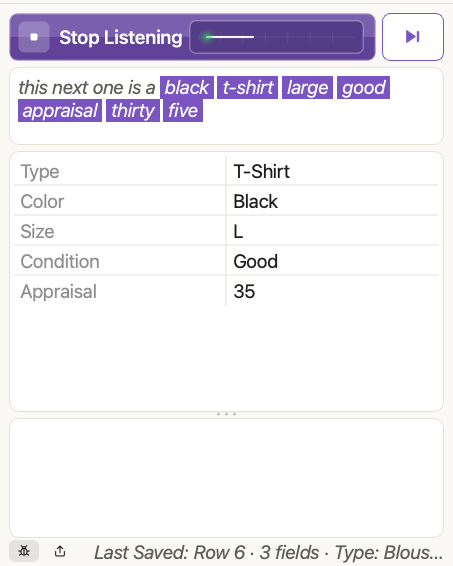
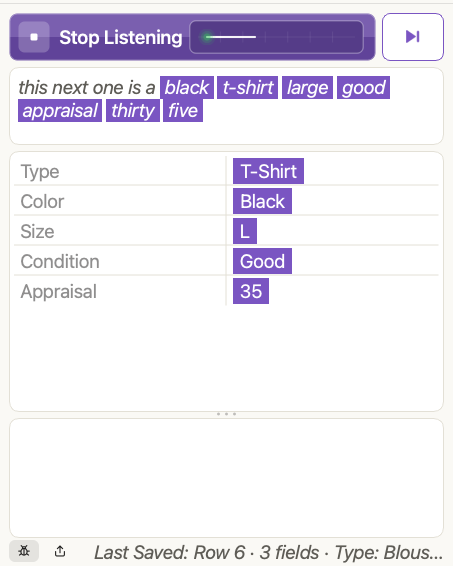
feat: values in the row grid wear the pill; shorter default window; demo settings isolated; Whisper hint carries synonyms; fix stale tests

Changed region(s): [[0.4945, 0.2703, 0.6799, 0.5406]]

diff --git a/quill/ui/main_widgets.py b/quill/ui/main_widgets.py
@@ -28,6 +28,7 @@ from PySide6.QtWidgets import (
     QLabel,
     QSizePolicy,
     QStyle,
+    QStyledItemDelegate,
     QTableWidget,
     QTextEdit,
     QVBoxLayout,
@@ -112,6 +113,35 @@ class ResizeWatcher(QObject):
         return False
 
 
+class _ValuePills(QStyledItemDelegate):
+    """Draws each value of the row grid as a pill: the same square-cornered, accent-coloured wrapper the words in the Voice Stream
+    wear, because they are what the user said."""
+
+    PAD_X, PAD_Y, MARGIN = 7, 3, 6
+
+    def __init__(self, parent) -> None:
+        super().__init__(parent)
+        self.fill, self.ink = QColor("#7A55C2"), QColor("#FFFFFF")
+
+    def paint(self, painter, option, index) -> None:
+        text = str(index.data() or "")
+        if not text:
+            return
+        table = self.parent()
+        reach = option.rect.width() - self.MARGIN - table.DELETE_SIZE - table.DELETE_MARGIN - 6          # (clear of the delete button)
+        metrics = option.fontMetrics
+        shown = metrics.elidedText(text, Qt.TextElideMode.ElideRight, max(reach - 2 * self.PAD_X, 20))
+        width = metrics.horizontalAdvance(shown) + 2 * self.PAD_X
+        height = min(metrics.height() + 2 * self.PAD_Y, option.rect.height() - 4)
+        box = QRect(option.rect.left() + self.MARGIN, option.rect.top() + (option.rect.height() - height) // 2, width, height)
+        painter.save()
+        painter.fillRect(box, self.fill)
+        painter.setPen(self.ink)
+        painter.setFont(option.font)
+        painter.drawText(box, Qt.AlignmentFlag.AlignCenter, shown)
+        painter.restore()
+
+
 class RowTable(QTableWidget):
     """The row being built: a column and its value per line, which the user can delete.
 
@@ -147,6 +177,14 @@ class RowTable(QTableWidget):
         self._over_name = False                  # the pointer is over the column name of such a line
         self._button_fill = QColor("#7A55C2")    # the theme colour; set with :meth:`set_delete_colors`
         self._button_glyph = QColor("#FFFFFF")
+        self._pills = _ValuePills(self)
+        if columns >= 2:
+            self.setItemDelegateForColumn(1, self._pills)          # the values, in pills
+
+    def set_pill_colors(self, fill: str, ink: str) -> None:
+        """Colour the pills the values are drawn in (the theme's accent and the colour on it, as in the Voice Stream)."""
+        self._pills.fill, self._pills.ink = QColor(fill), QColor(ink)
+        self.viewport().update()
 
     def set_delete_colors(self, fill: str, glyph: str) -> None:
         """Colour the delete button: a filled circle in *fill* with an "x" in *glyph* (the theme's accent colours)."""

diff --git a/quill/config/settings.py b/quill/config/settings.py
@@ -63,7 +63,7 @@ DEFAULT_PREFERENCES: dict[str, object] = {
     "spacing": "compact",     # "compact" | "comfortable"
     "font_size": 14,          # base text size in points (14 since preferences version 2; 12 before)
     "model_migrated": False,   # the speech model was once switched to the best one installed
-    "prefs_version": 2,       # raised when a default changes that saved settings should follow
+    "prefs_version": 3,       # raised when a default changes that saved settings should follow
     "log_collapsed": True,    # the main window's log starts hidden (a click on "Log" opens it)
     "hide_dock_icon": False,  # macOS: keep Quill out of the Dock (it stays in the menu bar)
     "window_width": 0,        # the full window's size when Quill last closed (0 = not saved yet)
@@ -243,6 +243,8 @@ class Settings:
         if int(prefs.get("prefs_version", 1) if isinstance(prefs, dict) else 1) < 2:      # settings saved before the new default size
             if settings.preferences["font_size"] == 12:
                 settings.preferences["font_size"] = int(DEFAULT_PREFERENCES["font_size"])
+        if int(prefs.get("prefs_version", 1) if isinstance(prefs, dict) else 1) < 3:      # the default window got shorter: follow it once
+            settings.preferences["window_height"] = 0
         settings.preferences["prefs_version"] = int(DEFAULT_PREFERENCES["prefs_version"])
         settings.account = clean_account(data.get("account") if isinstance(data.get("account"), dict) else None)
         settings.links = LinkStore.from_list(data.get("links"))

diff --git a/quill/app.py b/quill/app.py
@@ -962,14 +962,22 @@ class QuillApp:
         return self._refiner_factory(folder, self._whisper_hint)
 
     def _whisper_hint(self) -> str:
-        """Words the sheet uses ("Brand: Nike, Levi's. Size: S, M."): given to Whisper so it spells them the sheet's way."""
+        """The words the sheet uses ("Brand: Nike, Levi's. Size: S, M, L (also said: large, extra large)."): given to Whisper as its
+        starting prompt so it spells them the sheet's way. A prompt can only be about 224 tokens, so the columns come first, then
+        their values and the synonyms the user taught, until it is full."""
         try:
             vocab = self.controller.vocab
-            parts = [f"{column}: {', '.join(vocab.values_for(column)[:12])}." for column in vocab.columns()[:12]
-                     if vocab.values_for(column)]
+            parts = []
+            for column in vocab.columns()[:14]:
+                values = vocab.values_for(column)
+                if not values:
+                    continue
+                spoken = sorted((self.settings.aliases.get(column) or {}))[:6]
+                extra = f" (also said: {', '.join(spoken)})" if spoken else ""
+                parts.append(f"{column}: {', '.join(values[:14])}{extra}.")
         except Exception:
             return ""
-        return " ".join(parts)[:600]
+        return " ".join(parts)[:800]
 
     def quality_installed(self, quality: str) -> bool:
         """Whether the speech model for *quality* ("standard" or "better") can be found."""

diff --git a/tests/test_mini_view.py b/tests/test_mini_view.py
@@ -755,3 +755,24 @@ class TestSizeAfterCloseAndReopen(unittest.TestCase):
         w.widget.resize(mini[0], mini[1] + 28)
         self.wait(1300)
         self.assertEqual((w.widget.width(), w.widget.height()), mini)
+
+
+class TestValuePills(unittest.TestCase):
+    def test_the_values_of_the_row_grid_are_drawn_as_pills_in_the_accent_colours(self):
+        from PySide6.QtGui import QColor
+        w = MainWindow()
+        w.setup()
+        w.widget.resize(420, 400)
+        w.widget.show()
+        w.refresh_icons("#EDEDED", "#FFFFFF", "#7A55C2")
+        w.update_current_row({"Color": "Black", "Size": "L"})
+        QApplication.processEvents()
+        table = w.row_table
+        self.assertEqual((table._pills.fill.name().lower(), table._pills.ink.name().lower()), ("#7a55c2", "#ffffff"))
+        index = table.model().index(0, 1)
+        image = table.viewport().grab().toImage()
+        rect = table.visualRect(index)
+        inside = image.pixelColor(rect.left() + 12, rect.center().y())                # a point inside the pill, left of its text
+        self.assertEqual(inside.name().lower(), "#7a55c2")                          # the value wears the accent colour
+        name = image.pixelColor(table.visualRect(table.model().index(0, 0)).left() + 3, rect.center().y())
+        self.assertNotEqual(name.name().lower(), "#7a55c2")                         # the column name does not

diff --git a/main.py b/main.py
@@ -26,7 +26,16 @@ def main(argv: list[str] | None = None) -> int:
     setup_logging(verbose=args.verbose)                      # a packaged app has no console: keep a log file instead
 
     from quill.config.settings import Settings
-    settings = Settings.load()
+    from quill.demo import demo_requested
+    demo = demo_requested(args.demo)
+    if demo:
+        # A demo must never change what a real user has taught Quill (words, synonyms, skipped words, the window's size), and a second
+        # run must start as clean as the first: its settings live in a new throw-away folder every time.
+        import pathlib
+        import tempfile
+        settings = Settings.load(pathlib.Path(tempfile.mkdtemp(prefix="quill-demo-settings-")))
+    else:
+        settings = Settings.load()
 
     from PySide6.QtWidgets import QMessageBox
 
@@ -36,8 +45,7 @@ def main(argv: list[str] | None = None) -> int:
     app.setQuitOnLastWindowClosed(False)  # lives in tray after window closes
 
     from quill.bridge.factory import startup_bridge
-    from quill.demo import demo_requested, make_demo_workbook
-    demo = demo_requested(args.demo)
+    from quill.demo import make_demo_workbook
     if demo:
         args.workbook = str(make_demo_workbook(os.environ.get("QUILL_DEMO_DIR") or None))   # (a fixed folder lets a recording open the same file in a spreadsheet first)
     try:

diff --git a/quill/ui/main_window.py b/quill/ui/main_window.py
@@ -105,7 +105,7 @@ FOOTER_ROOM = 22 + 3 + LOG_BOTTOM_MARGIN
 ROW_GRIP_DROP = 5
 SIZE_SETTLE_MS = 400        # how long the window must stay still before its size is reported
 MIN_REMEMBERED = (300, 300)  # a remembered size below this is ignored
-MIN_WINDOW = (453, 383)      # the full window never gets smaller than this, and opens at it the first time
+MIN_WINDOW = (453, 340)      # the full window never gets smaller than this, and opens at it the first time
 LOG_OPEN_HEIGHT = 120       # height of the log while it is open (until the user drags it to another)
 LOG_MIN_HEIGHT, LOG_MAX_HEIGHT = 60, 600     # how short and tall the user may drag the log
 #: Gap (px) between the log box and the footer under it.
@@ -1754,6 +1754,7 @@ class MainWindow:
         self.mini_button.setAccessibleName("Back to the Full Window" if self._view_mini else "Mini View")
         self.badge_label.set_colors(on_accent, accent)
         self.row_table.set_delete_colors(accent, on_accent)
+        self.row_table.set_pill_colors(accent, on_accent)
         self.update_current_row(self._row_fields)         # the grid's first column takes its colour from the theme
         self.undo_button.setIcon(make_icon("undo", text_color, 18))
         self.help_button.setIcon(make_icon("question", text_color, 18))

diff --git a/tests/test_settings.py b/tests/test_settings.py
@@ -183,3 +183,18 @@ class TestNewShippedCommands(SettingsCase):
         s.set_keywords([("go", Action.START_LISTENING), ("halt", Action.STOP_LISTENING)])
         s.save()
         self.assertNotIn("term helper", Settings.load(self.dir).keywords)
+
+
+class TestWindowHeightMigration(unittest.TestCase):
+    def test_a_saved_height_from_before_the_shorter_default_is_forgotten_once(self):
+        import pathlib, tempfile
+        from quill.config.settings import Settings
+        folder = pathlib.Path(tempfile.mkdtemp())
+        settings = Settings.load(folder)
+        settings.preferences.update(window_width=500, window_height=700, prefs_version=2)
+        settings.save()
+        again = Settings.load(folder)
+        self.assertEqual((again.preferences["window_width"], again.preferences["window_height"]), (500, 0))
+        again.preferences["window_height"] = 610                                   # a size chosen since is kept
+        again.save()
+        self.assertEqual(Settings.load(folder).preferences["window_height"], 610)

diff --git a/tests/test_ui.py b/tests/test_ui.py
@@ -73,7 +73,10 @@ class TestMainWindow(unittest.TestCase):
         self.assertIn("c.xlsx", self.w.open_file_button.toolTip())          # the folder icon names the file
 
     def test_last_saved(self):
+        self.w.widget.show()
+        QApplication.processEvents()                                        # (the label elides to its width: it needs a laid-out window)
         self.w.set_last_saved("Row 4")
+        QApplication.processEvents()
         self.assertEqual(self.w.last_label.text(), "Last Saved: Row 4")
 
     def test_show_before_setup_is_harmless(self):

diff --git a/tests/test_whisper.py b/tests/test_whisper.py
@@ -199,6 +199,9 @@ class TestBestInTheApp(unittest.TestCase):
     def test_the_hint_lists_the_sheets_values(self):
         self.app.start()
         self.assertTrue(self.app._whisper_hint())
+        self.app.settings.aliases.setdefault("Pot Size", {})["jumbo"] = "XL"
+        self.assertIn("jumbo", self.app._whisper_hint())                       # the synonyms the user taught are in it
+        self.assertLessEqual(len(self.app._whisper_hint()), 800)
 
     def test_download_refused_when_the_engine_is_missing(self):
         self.engine = False
